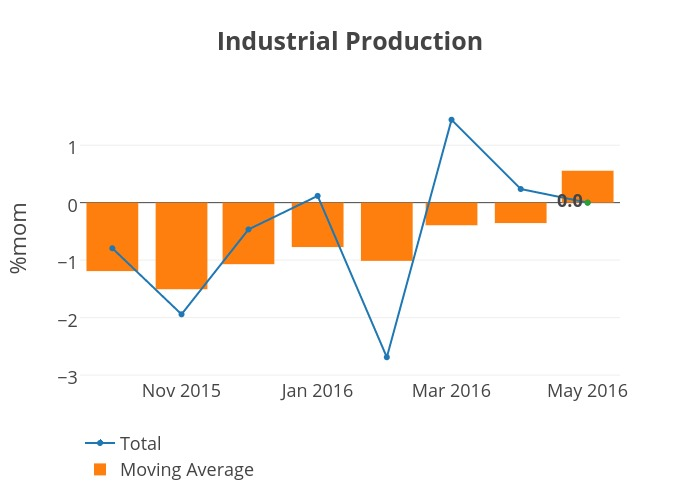
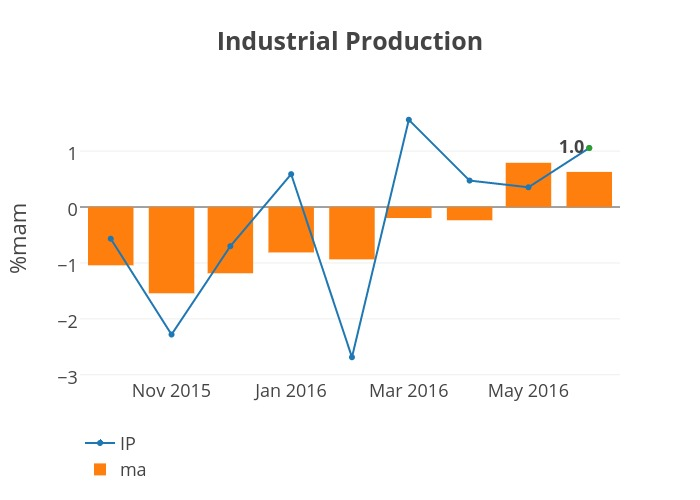
add function to generate moving average chart

diff --git a/activity_brazil/industry_sa_chart.py b/activity_brazil/industry_sa_chart.py
@@ -1,7 +1,8 @@
 ######################################################################
 # script to draw retail sales for Brazil
 # initial date: 11/07/2016
-######################################################################p
+######################################################################
+
 import pandas as pd
 import plotly.plotly as py
 import plotly.graph_objs as go
@@ -10,31 +11,36 @@ import plotly.graph_objs as go
 df = pd.read_csv("../data/ind_atividades_sa.csv", index_col=[0])
 df_mave = df.rolling(window=3).mean()
 
-### total sales
+# data manipulation
 df_total = pd.merge(pd.DataFrame(df['Geral']), pd.DataFrame(df_mave['Geral']),
                     left_index=True,  right_index=True,
                     how="inner").pct_change(periods=1) * 100
 df_total.columns = ["total", "ma"]
 
-df_total_last = df_total.iloc[-1:, :]
-start_date = "2015-10-01"
-df_total_new = df_total[df_total.index >= start_date]
-
-
 # chart
-trace01 = go.Scatter(x=df_total_new.index,
-                     y = df_total_new['total'], name = "Total")
-trace02 = go.Bar(x=df_total_new.index,
-                     y = df_total_new['ma'], name = "Moving Average")
-trace03 = go.Scatter(x=df_total_last.index, y=df_total_last['total'],
-                    mode="markers+text",
-                    text=["<b>"+str(round(df_total_last.values[0][0]))+"</b>"],
-                     textposition='leftl', showlegend=False)
-
-data = [trace01, trace02, trace03]
 
 
-layout = go.Layout(title="<b>Industrial Production</b>", legend=dict(x=0, y=-0.4),
-                   font=dict(size=18), yaxis=dict(title="%mom", tickmode="auto", nticks=5))
-fig = go.Figure(data=data, layout=layout)
-py.image.save_as(fig, "../exhibits/industry_total_chart.jpeg", format="jpeg")
+def chart_gen(df, title, leg, y_title, date_ini):
+    df_total_last = df.iloc[-1:, :]
+    df_total_new = df[df.index >= date_ini]
+    trace01 = go.Scatter(x=df_total_new.index,
+                         y=df_total_new.iloc[:,0], name=leg[0])
+    trace02 = go.Bar(x=df_total_new.index,
+                     y=df_total_new.iloc[:,1], name=leg[1])
+    trace03 = go.Scatter(x=df_total_last.index, y=df_total_last.iloc[:, 0],
+                         mode="markers+text",
+                         text=["<b>"+str(round(df_total_last.values[0][0]))+"</b>"],
+                         textposition='left', showlegend=False)
+    data = [trace01, trace02, trace03]
+    layout = go.Layout(title="<b>{}</b>".format(title), legend=dict(x=0, y=-0.4),
+                       font=dict(size=18), yaxis=dict(title="{}".format(y_title),
+                                                      tickmode="auto", nticks=5))
+    return go.Figure(data=data, layout=layout)
+
+
+# generates chart
+start_date = "2015-10-01"
+py.image.save_as(chart_gen(df_total, "Industrial Production", ["IP", "ma"],
+                           "%mam", start_date),
+                "../exhibits/industry_total_chart.jpeg",
+                 format="jpeg")
